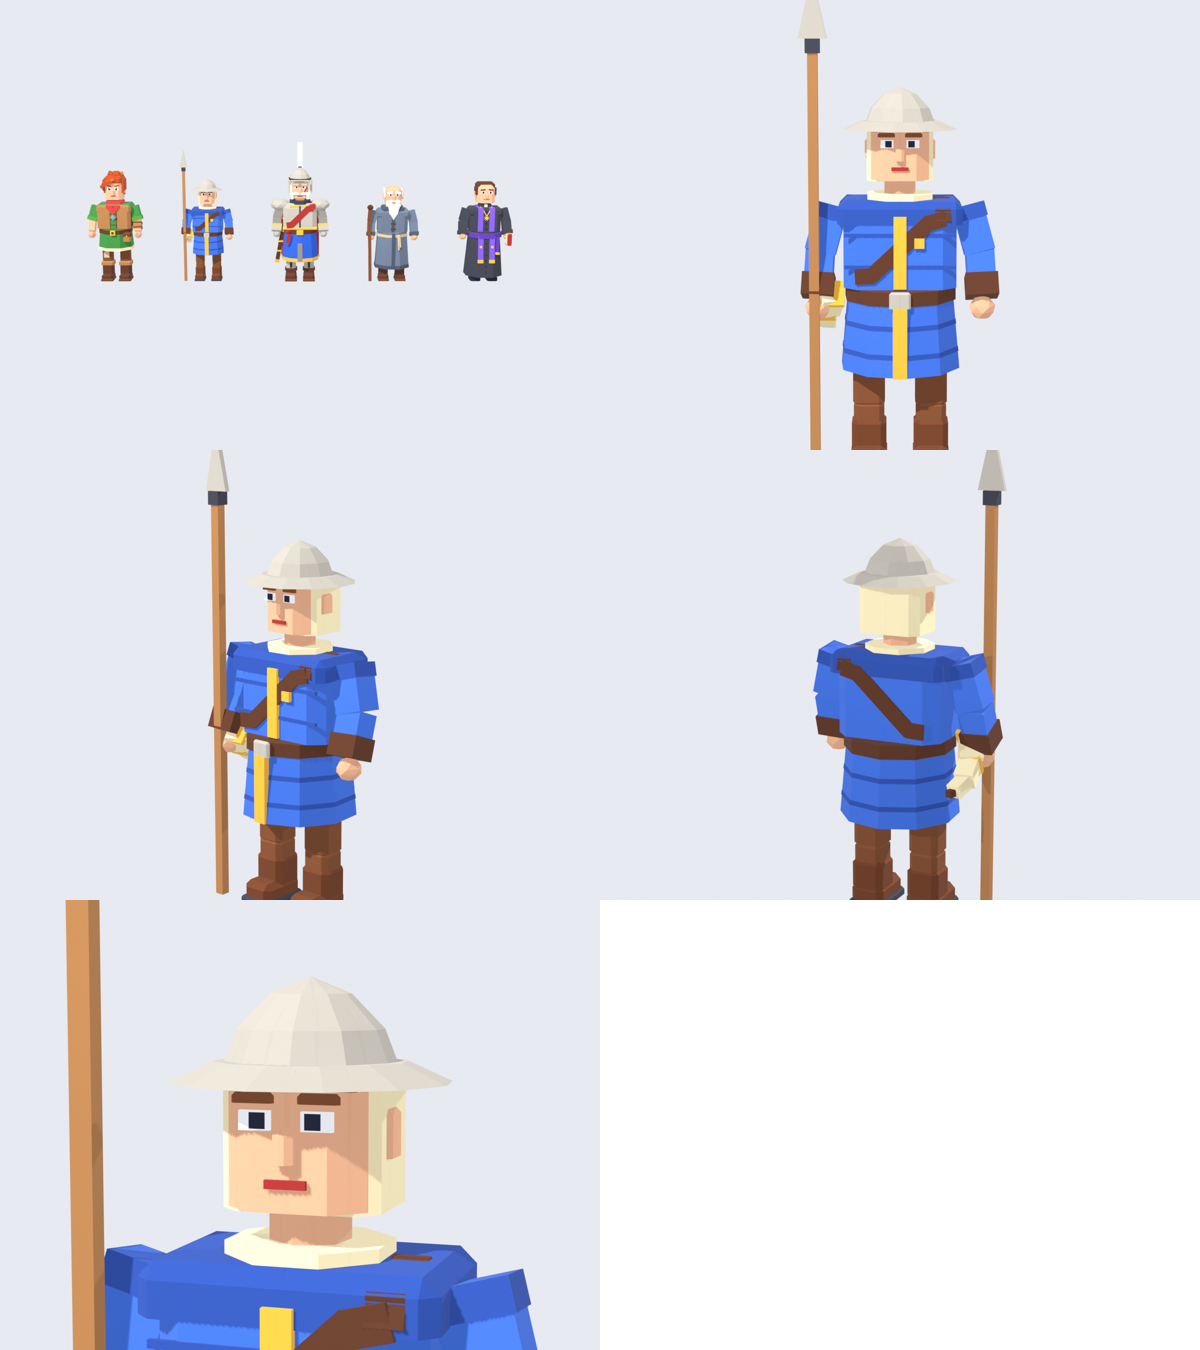
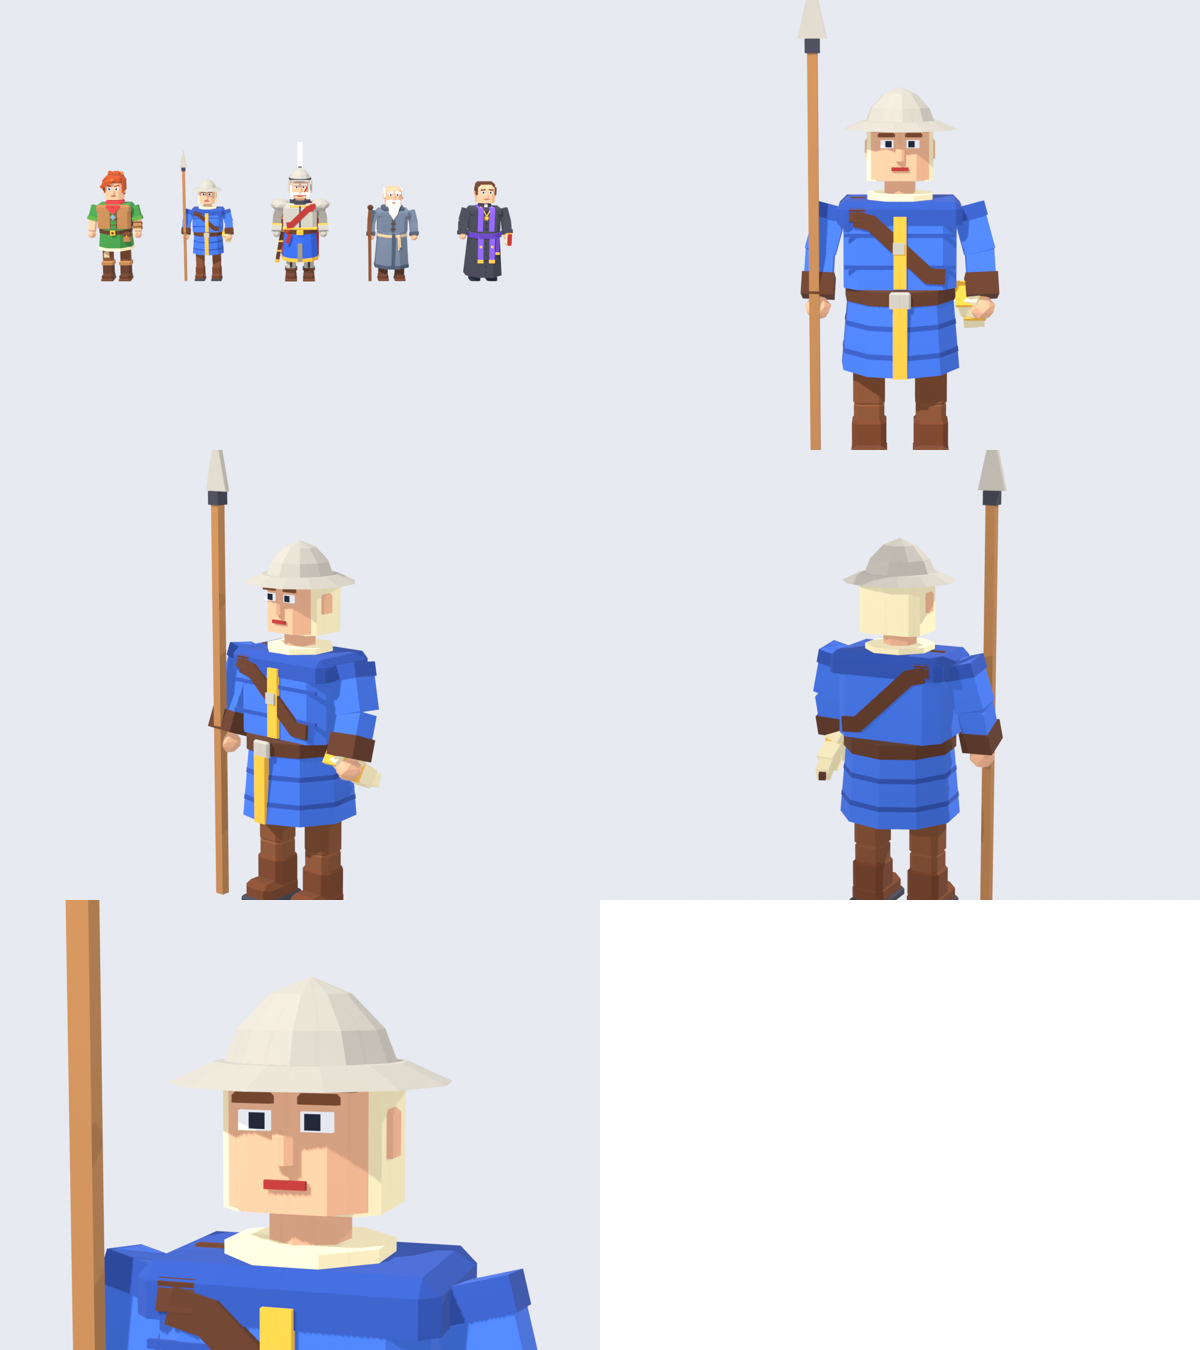
Lookout v2: the horn on the left hip by the free hand, the baldric over the right shoulder

diff --git a/Tools/blender/cinematic/lookout.py b/Tools/blender/cinematic/lookout.py
@@ -5,7 +5,7 @@ Same style as Ардан and the captain, on Ардан's rig (figure.py). A you
 the captain: a quilted blue gambeson to mid-thigh stitched in rings with a gold stripe down the front, a
 leather belt, brown hose and boots; a plain steel kettle helmet over a padded coif; a spear in his right
 hand (his left is free -- he points with it); a cow horn with brass bands on a leather baldric from the
-left shoulder to the right hip.
+right shoulder to the left hip (the horn away from the spear hand).
 
     blender --background <Buildings-Size1-Models.blend> --python lookout.py
 """
@@ -35,10 +35,11 @@ fg.plain(SKIN, BLUE, BLUE_DARK, GOLD, STEEL, STEEL_DARK, LEATHER, HOSE, BOOT, SO
          EYE, PUPIL)
 
 CHEST = ((0, 0, 0.33), (0.08, 0.056, 0.06), 0.02)      # the gambeson's chest: centre, half sizes, bevel
-# the baldric: from the right hip up the front, over the LEFT shoulder (+x), down the back to the right hip
-BALDRIC = ([(-0.06 + 0.12 * i / 6, -1.0, 0.272 + 0.112 * i / 6) for i in range(7)]
-           + [(0.06, -1.0, 1.0), (0.06, 0.0, 1.0), (0.06, 1.0, 1.0)]
-           + [(0.06 - 0.12 * i / 6, 1.0, 0.384 - 0.112 * i / 6) for i in range(7)])
+# the baldric: from the LEFT hip (+x) up the front, over the right shoulder (-x), down the back to the left hip --
+# the horn hangs on the left, away from the spear hand (the user, 2026-11-14)
+BALDRIC = ([(0.06 - 0.12 * i / 6, -1.0, 0.272 + 0.112 * i / 6) for i in range(7)]
+           + [(-0.06, -1.0, 1.0), (-0.06, 0.0, 1.0), (-0.06, 1.0, 1.0)]
+           + [(-0.06 + 0.12 * i / 6, 1.0, 0.384 - 0.112 * i / 6) for i in range(7)])
 
 
 def foot(b, k):
@@ -67,12 +68,12 @@ def waist(b):
     b.box(-0.01, 0.01, -0.09, -0.08, 0.15, 0.25, GOLD)
     b.cylinder(0, 0, 0.25, 0.27, 0.082, LEATHER, sides=10)
     b.box(-0.015, 0.015, -0.088, -0.08, 0.249, 0.272, STEEL, bevel=0.003)
-    # the horn at the right hip (-x), hung from the baldric's foot: a curved cone, brass bands, a dark tip
-    pts = [(-0.098, -0.03, 0.262), (-0.108, -0.01, 0.235), (-0.11, 0.02, 0.215), (-0.104, 0.045, 0.205)]
+    # the horn at the left hip (+x), hung from the baldric's foot: a curved cone, brass bands, a dark tip
+    pts = [(0.098, -0.03, 0.262), (0.108, -0.01, 0.235), (0.11, 0.02, 0.215), (0.104, 0.045, 0.205)]
     widths = [0.034, 0.028, 0.02, 0.012]
     for (p0, p1), w in zip(zip(pts, pts[1:]), widths):
         b.rod(p0, p1, w, HORN)
-    b.rod(pts[-1], (-0.1, 0.055, 0.204), 0.01, HORN_TIP)
+    b.rod(pts[-1], (0.1, 0.055, 0.204), 0.01, HORN_TIP)
     for p in pts[:2]:
         b.rod((p[0], p[1] - 0.003, p[2]), (p[0], p[1] + 0.003, p[2] - 0.004), 0.038 if p is pts[0] else 0.031, GOLD)
 
@@ -86,7 +87,7 @@ def chest(b):
     b.obox((0, 0, 0.378), (1, 0, 0), (0, 1, 0), (0, 0, 1), 0.088, 0.058, 0.016, BLUE_DARK, bevel=0.01)   # padded shoulders
     b.box(-0.009, 0.009, -0.062, -0.054, 0.272, 0.374, GOLD)
     kit.band_on_box(b, c, h, r, BALDRIC, 0.022, 0.0025, LEATHER)
-    b.box(0.02, 0.034, -0.064, -0.058, 0.33, 0.344, GOLD)                                # the baldric's buckle
+    b.box(-0.01, 0.006, -0.065, -0.058, 0.322, 0.338, STEEL)                             # the baldric's buckle
     b.cylinder(0, 0, 0.386, 0.402, 0.05, COIF, sides=8)                                  # the coif at the neck
 
 

diff --git a/Design/features/campaign.md b/Design/features/campaign.md
@@ -707,7 +707,8 @@
   - The LOOKOUT (cutscene only, `CineLookout`, `Tools/blender/cinematic/lookout.py`, Ардан's rig): a young town
     guard -- quilted blue gambeson with a gold stripe, padded coif under a plain steel kettle helmet, a spear in
     the right hand (-x; the left free to point), a brass-banded horn on a leather baldric (kit.band_on_box) over
-    the left shoulder. Render `Design/buildings/Lookout_review.png` SENT FOR APPROVAL 2026-11-14.
+    the right shoulder, the horn on the LEFT hip, by the free hand (v2, the user: not in the spear hand). Render
+    `Design/buildings/Lookout_review.png` v2 SENT FOR APPROVAL 2026-11-14.
     Note: on the cine rig the figure's RIGHT is -x (fg.limbs "R" = k -1); the captain's scabbard sits at -x.
 - **Level-skip cheats (the user, 2026-11-12; not in a -release build):** the campaign map shows «Чит: пройти
   уровень» (marks the picked level done, the map reloads, the next opens) and «Чит: пройти все» top right
